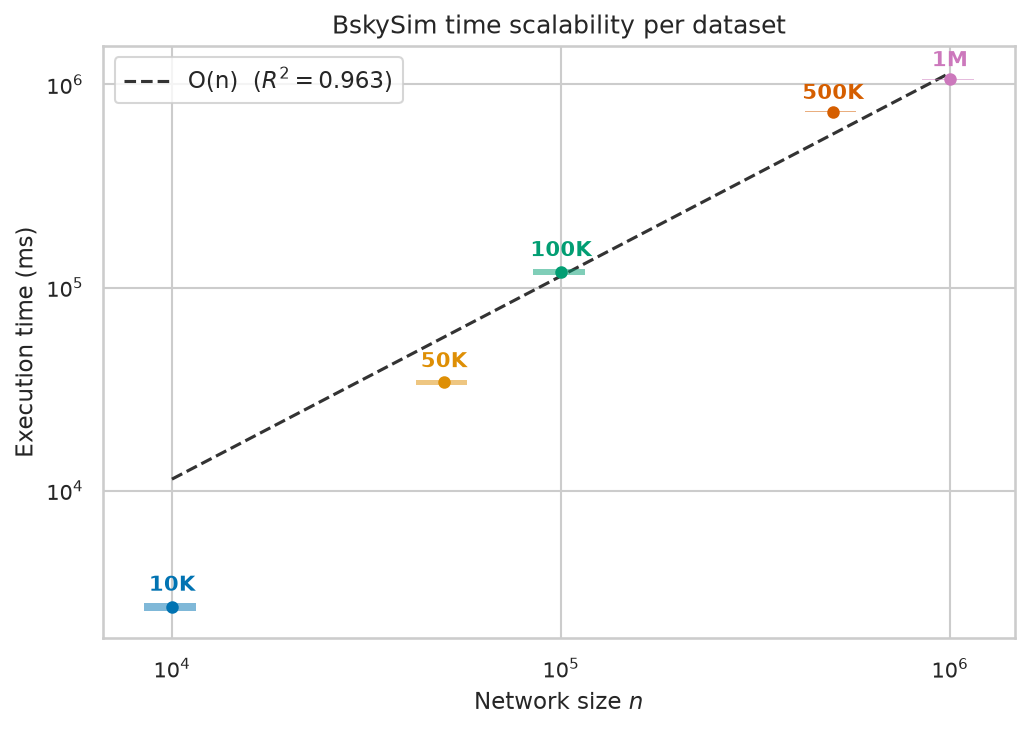
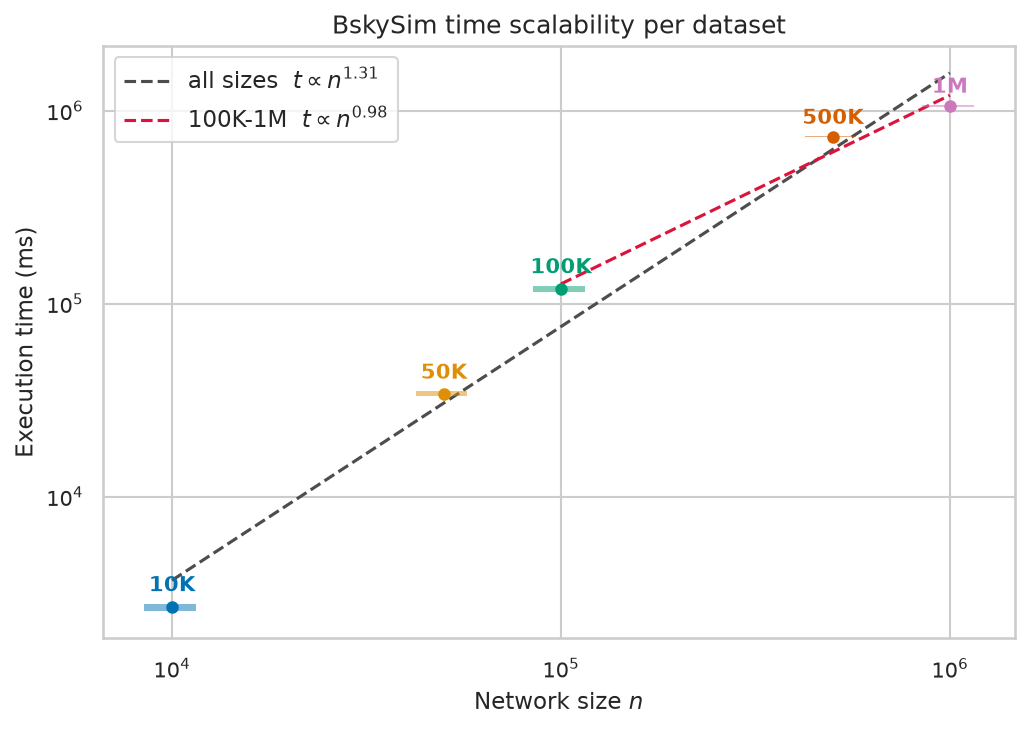
owo

diff --git a/python-utils/plot_time_complexity.py b/python-utils/plot_time_complexity.py
@@ -78,9 +78,20 @@ def main() -> None:
 
     name, a, r2 = best
     p, logc = np.polyfit(np.log(n), np.log(mean), 1)
+    c_full = np.exp(logc)
+
+    # Big-topologies power-law (100K, 500K, 1M) — the asymptotic regime.
+    BIG = {"100K", "500K", "1M"}
+    big_sizes = [s for s in fit_sizes if s in BIG]
+    n_big = np.array([N[s] for s in big_sizes])
+    mean_big = np.array([data[s].mean() for s in big_sizes])
+    p_big, logc_big = np.polyfit(np.log(n_big), np.log(mean_big), 1)
+    c_big = np.exp(logc_big)
+
     print(f"\nFit over: {', '.join(fit_sizes)}  (excluded: {', '.join(outliers)})")
     print(f"Best model: {name} (R2={r2:.4f})  ->  time = {a:.4g} * {name.lstrip('O(').rstrip(')')} ms")
-    print(f"Free power-law exponent: p = {p:.3f}")
+    print(f"Free power-law exponent (all): p = {p:.3f}")
+    print(f"Free power-law exponent (100K-1M): p = {p_big:.3f}")
 
     print(f"\n{'Size':<6} {'n runs':>7} {'Mean (ms)':>12} {'Median (ms)':>12}")
     print("-" * 42)
@@ -112,8 +123,11 @@ def main() -> None:
                     xytext=(0, 6), ha="center", fontsize=10, color="0.6")
 
     n_fit = np.geomspace(n.min(), n.max(), 100)
-    ax.plot(n_fit, a * basis(name, n_fit), "--", color="0.2", lw=1.5,
-            label=f"{name}  ($R^2={r2:.3f}$)")
+    ax.plot(n_fit, c_full * n_fit ** p, "--", color="0.3", lw=1.5,
+            label=f"all sizes  $t \\propto n^{{{p:.2f}}}$")
+    n_big_fit = np.geomspace(n_big.min(), n_big.max(), 100)
+    ax.plot(n_big_fit, c_big * n_big_fit ** p_big, "--", color="crimson", lw=1.5,
+            label=f"100K-1M  $t \\propto n^{{{p_big:.2f}}}$")
 
     ax.set_xscale("log")
     ax.set_yscale("log")
